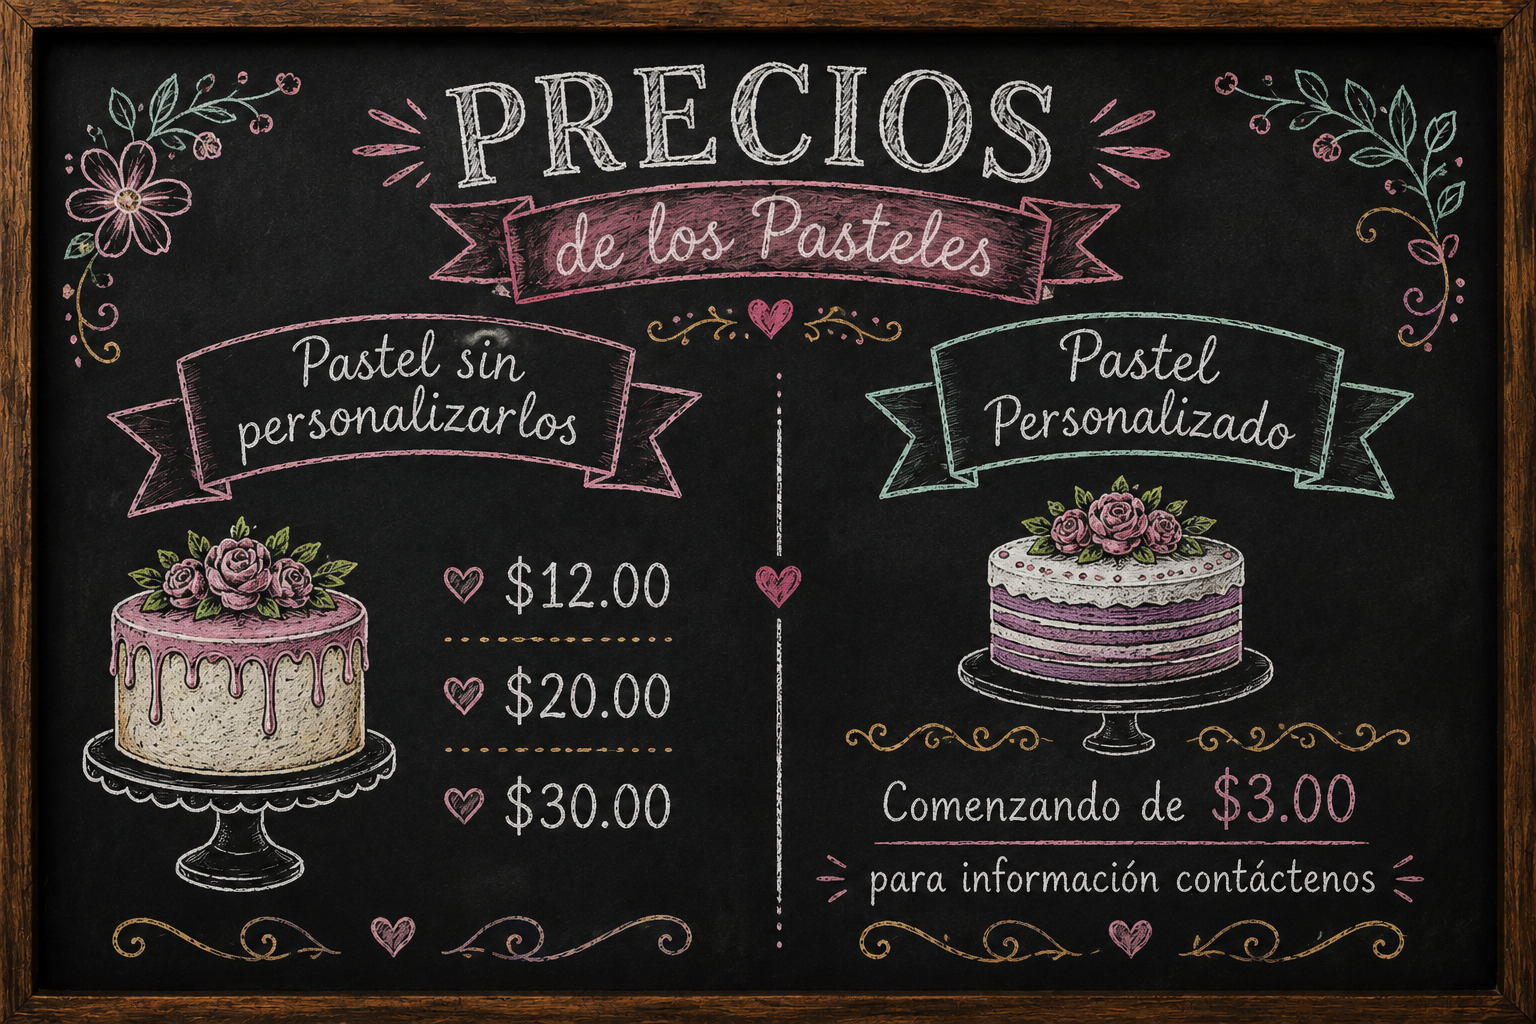
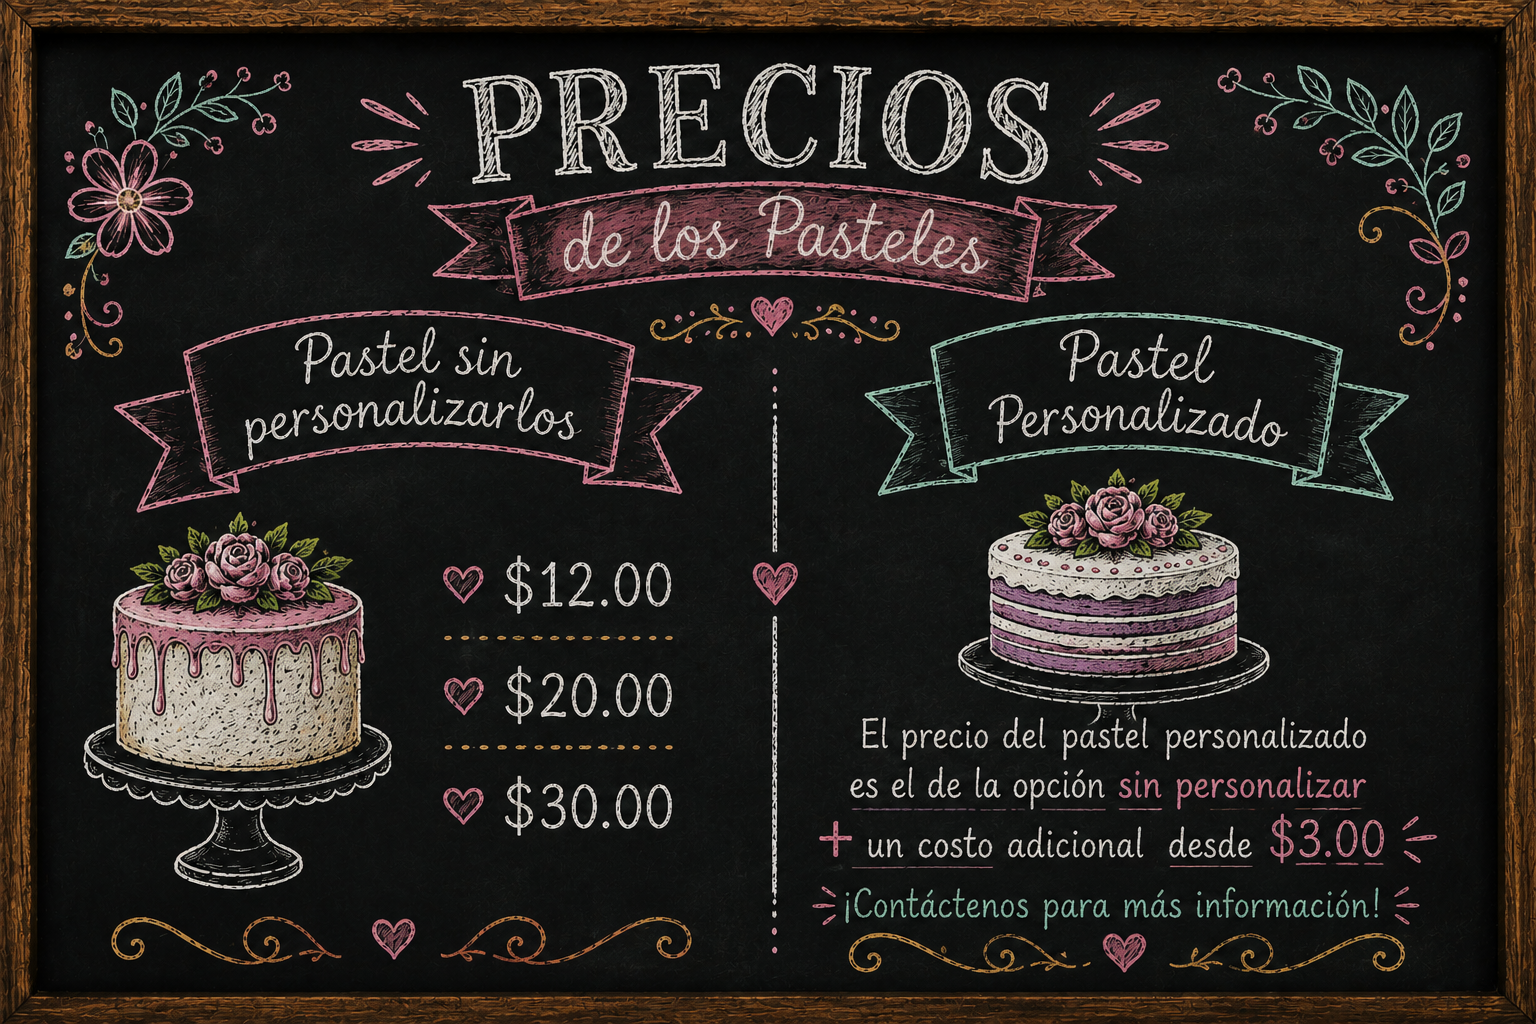
replace the pastel img with updated wording, fix cordinates for maps

diff --git a/index.html b/index.html
@@ -36,26 +36,29 @@
 
     <section class="about">
         <h2>Sobre Nosotros</h2>
-        <p>En DeliMundo nos dedicamos a crear pasteles y postres de alta calidad, utilizando ingredientes frescos y recetas tradicionales.</p>
+        <p>En DeliMundo nos dedicamos a crear pasteles y postres de alta calidad, utilizando ingredientes frescos y recetas tradicionales. Somos un emprendimiento surgiente</p>
+        <div>
+
+        </div>
     </section>
     <section class="location-section">
         <div class="location-content">
             <h1>📍 Nuestra Ubicación</h1>
             <p>
                 Con mucho cariño servimos a la comunidad de
-                <strong>Cojutepeque, El Salvador</strong>, ofreciendo pasteles,
+                <strong>Cojutepeque, estamos ubicados en candelaria, Cuscatlán sur</strong>, ofreciendo pasteles,
                 postres y dulces elaborados con ingredientes de calidad para hacer
                 especiales tus celebraciones.
             </p>
 
             <p>
-                ¡Haz tu pedido por WhatsApp o visítanos! Será un placer atenderte.
+                ¡Haz tu pedido por WhatsApp o visítanos! hacemos entregas por un costo adicional. Será un placer atenderte.
             </p>
         </div>
 
         <div class="map-container">
         <iframe
-            src="https://www.google.com/maps?q=Cojutepeque,+El+Salvador&output=embed"
+             src="https://www.google.com/maps?q=13.692572,-88.942970&output=embed"
             loading="lazy"
             allowfullscreen>
         </iframe>

diff --git a/cakes.js b/cakes.js
@@ -47,7 +47,6 @@ const cakeImages = [
     "IMG_5336 (1).webp",
     "IMG_5401.webp",
     "IMG_5457.webp",
-    "IMG_5458.webp",
     "IMG_5526.webp",
     "IMG_5646.webp",
     "IMG_5653.webp",